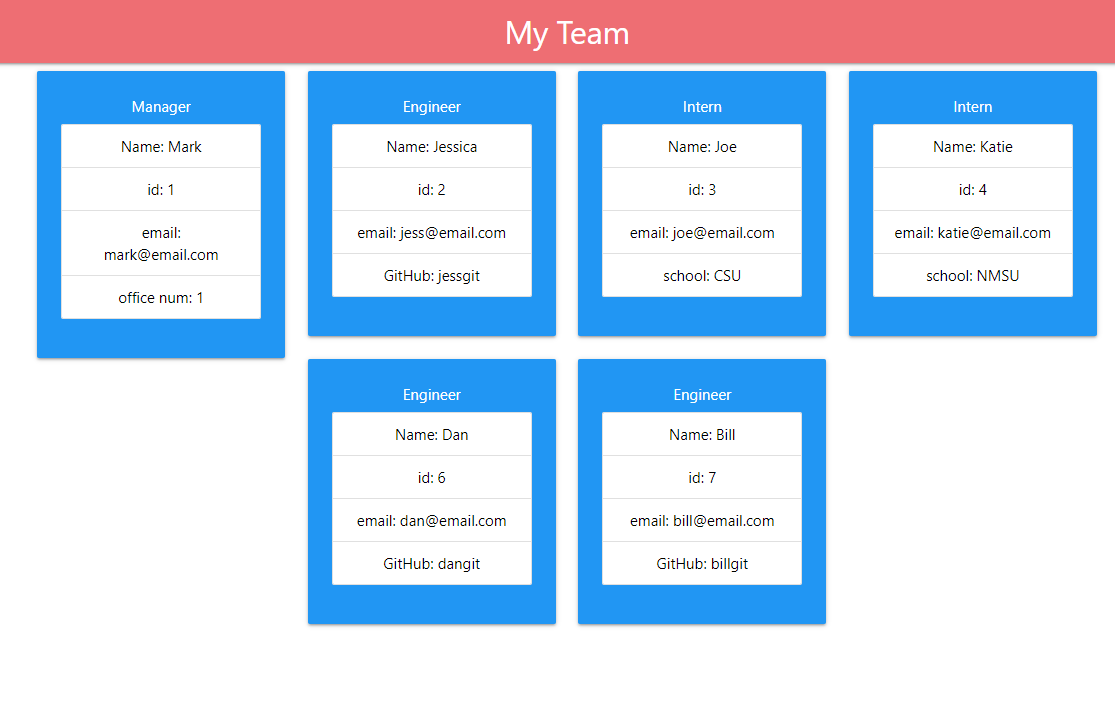
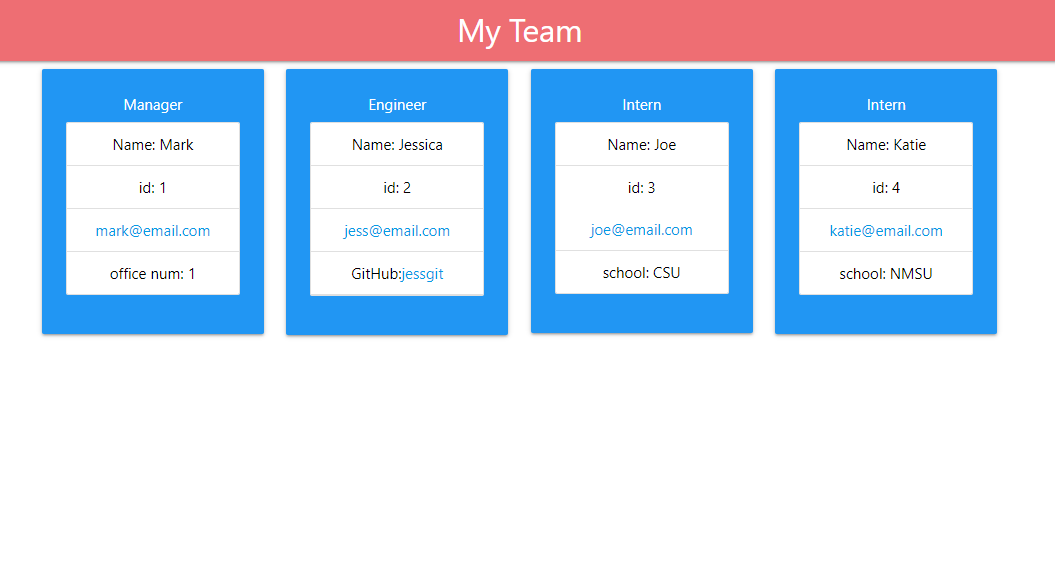
updated readme and removed some unneeded files

Changed region(s): [[0.0, 0.0296, 1.0, 0.8885], [0.6066, 0.6516, 0.637, 0.6812], [0.364, 0.6516, 0.3943, 0.6812]]

diff --git a/sample_index.html b/sample_index.html
@@ -26,7 +26,7 @@
         <ul class="collection">
           <li class="collection-item black-text">Name: Mark</li>
             <li class="collection-item black-text">id: 1</li>
-            <li class="collection-item black-text">email: mark@email.com</li>
+            <li class="collection-item black-text"><a href="mailto:mark@email.com">mark@email.com</a></li>
             <li class="collection-item black-text">office num: 1</li>
         </ul>
       </div>
@@ -38,19 +38,19 @@
         <ul class="collection">
           <li class="collection-item black-text">Name: Jessica</li>
             <li class="collection-item black-text">id: 2</li>
-            <li class="collection-item black-text">email: jess@email.com</li>
-            <li class="collection-item black-text">GitHub: jessgit</li>
+            <li class="collection-item black-text"><a href="mailto:jess@email.com">jess@email.com</a></li>
+            <li class="collection-item black-text">GitHub:<a href="https://github.com/jessgit"</a>jessgit</li>
         </ul>
       </div>
     </div>
       
       <div class="col s10 m4 l3">
       <div class="card-panel small blue white-text">
-        <span class="card-title">Intern</span>
+        <span class="card-title white-text">Intern</span>
         <ul class="collection">
           <li class="collection-item black-text">Name: Joe</li>
             <li class="collection-item black-text">id: 3</li>
-            <li class="collection-item black-text">email: joe@email.com</li>
+            <li class="collection-item black-text"><a href="mailto:joe@email.com">joe@email.com</a></li>
             <li class="collection-item black-text">school: CSU</li>
         </ul>
       </div>
@@ -58,40 +58,17 @@
       
       <div class="col s10 m4 l3">
       <div class="card-panel small blue white-text">
-        <span class="card-title">Intern</span>
+        <span class="card-title white-text">Intern</span>
         <ul class="collection">
           <li class="collection-item black-text">Name: Katie</li>
             <li class="collection-item black-text">id: 4</li>
-            <li class="collection-item black-text">email: katie@email.com</li>
+            <li class="collection-item black-text"><a href="mailto:katie@email.com">katie@email.com</a></li>
             <li class="collection-item black-text">school: NMSU</li>
         </ul>
       </div>
     </div>
-      
-      <div class="col s10 m4 l3">
-      <div class="card-panel small blue white-text">
-        <span class="card-title">Engineer</span>
-        <ul class="collection">
-          <li class="collection-item black-text">Name: Dan</li>
-            <li class="collection-item black-text">id: 6</li>
-            <li class="collection-item black-text">email: dan@email.com</li>
-            <li class="collection-item black-text">GitHub: dangit</li>
-        </ul>
-      </div>
-    </div>
-      
-      <div class="col s10 m4 l3">
-      <div class="card-panel small blue white-text">
-        <span class="card-title">Engineer</span>
-        <ul class="collection">
-          <li class="collection-item black-text">Name: Bill</li>
-            <li class="collection-item black-text">id: 7</li>
-            <li class="collection-item black-text">email: bill@email.com</li>
-            <li class="collection-item black-text">GitHub: billgit</li>
-        </ul>
-      </div>
-    </div>
        
+</div>
 </div>
 </div>
 <!-- JavaScript, jquery and materialize js links -->

diff --git a/src/template.js b/src/template.js
@@ -27,6 +27,7 @@ let teamString1 = `
 let teamString2 = `
 </div>
 </div>
+</div>
 <!-- JavaScript, jquery and materialize js links -->
 <script src="https://cdnjs.cloudflare.com/ajax/libs/jquery/3.6.0/jquery.min.js"></script>
 <script src="https://cdnjs.cloudflare.com/ajax/libs/materialize/1.0.0/js/materialize.min.js"></script>
@@ -53,7 +54,7 @@ function createTeamHtml(members){
         <ul class="collection">
           <li class="collection-item black-text">Name: ${element.getName()}</li>
             <li class="collection-item black-text">id: ${element.getId()}</li>
-            <li class="collection-item black-text">email: ${element.getEmail()}</li>
+            <li class="collection-item black-text"><a href="mailto:${element.getEmail()}">${element.getEmail()}</a></li>
             <li class="collection-item black-text">office num: ${element.getOfficeNumber()}</li>
         </ul>
       </div>
@@ -75,8 +76,8 @@ function createTeamHtml(members){
         <ul class="collection">
           <li class="collection-item black-text">Name: ${element.getName()}</li>
             <li class="collection-item black-text">id: ${element.getId()}</li>
-            <li class="collection-item black-text">email: ${element.getEmail()}</li>
-            <li class="collection-item black-text">GitHub: ${element.getGithub()}</li>
+            <li class="collection-item black-text"><a href="mailto:${element.getEmail()}">${element.getEmail()}</a></li>
+            <li class="collection-item black-text">GitHub:<a href="https://github.com/${element.getGithub()}"</a>${element.getGithub()}</li>
         </ul>
       </div>
     </div>
@@ -92,11 +93,11 @@ function createTeamHtml(members){
       intern = `
       <div class="col s10 m4 l3">
       <div class="card-panel small blue white-text">
-        <span class="card-title">Intern</span>
+        <span class="card-title white-text">Intern</span>
         <ul class="collection">
           <li class="collection-item black-text">Name: ${element.getName()}</li>
             <li class="collection-item black-text">id: ${element.getId()}</li>
-            <li class="collection-item black-text">email: ${element.getEmail()}</li>
+            <li class="collection-item black-text"><a href="mailto:${element.getEmail()}">${element.getEmail()}</a></li>
             <li class="collection-item black-text">school: ${element.getSchool()}</li>
         </ul>
       </div>

diff --git a/__tests__/Manager.test.js b/__tests__/Manager.test.js
@@ -10,6 +10,33 @@ describe("Manager", () => {
       expect(result).toBe(name);
     })
   })
+  describe("getId", () => {
+    // test getId for manager class
+    it("should return the name that is entered", () => {
+      const id = "1";
+      const newEmp = new Manager("Mark", id, "mark@email.com");
+      result = newEmp.getId()
+      expect(result).toBe(id);
+    })
+  })
+  describe("getEmail", () => {
+    // test getEmail for manager class
+    it("should return the name that is entered", () => {
+      const email = "mark@email.com";
+      const newEmp = new Manager("Mark", "1", email);
+      result = newEmp.getEmail()
+      expect(result).toBe(email);
+    })
+  })
+  describe("getRole", () => {
+    // test getRole for manager class
+    it("should return the name that is entered", () => {
+      const role = "Manager";
+      const newEmp = new Manager("Mark", "1", "mark@email.com");
+      result = newEmp.getRole()
+      expect(result).toBe(role);
+    })
+  })
 
 
 

diff --git a/__tests__/Intern.test.js b/__tests__/Intern.test.js
@@ -10,6 +10,33 @@ describe("Intern", () => {
       expect(result).toBe(name);
     })
   })
+  describe("getId", () => {
+    // test getId for intern class
+    it("should return the name that is entered", () => {
+      const id = "1";
+      const newEmp = new Intern("Mark", id, "mark@email.com");
+      result = newEmp.getId()
+      expect(result).toBe(id);
+    })
+  })
+  describe("getEmail", () => {
+    // test getName for intern class
+    it("should return the name that is entered", () => {
+      const email = "mark@email.com";
+      const newEmp = new Intern("Mark", "1", email);
+      result = newEmp.getEmail()
+      expect(result).toBe(email);
+    })
+  })
+  describe("getRole", () => {
+    // test getRole for intern class
+    it("should return the name that is entered", () => {
+      const role = "Intern";
+      const newEmp = new Intern("Mark", "1", "mark@email.com");
+      result = newEmp.getRole()
+      expect(result).toBe(role);
+    })
+  })
 
 
 

diff --git a/README.md b/README.md
@@ -23,12 +23,14 @@
 
   ## Usage 
   A manager will follow prompts to enter their name, id, email and office number.  Then they will be given a choice of adding an engineer or intern. After completing the engineer or inter's information the application will continue to ask the same question until the manager chooses "quit". When that is choosen a index.html file will be created in the root of the app that displays the team's information.  
- 
+
 ### Walkthrough Video
 [https://google.com](https://google.com)
 
+### Sample Index file
+[https://drive.google.com/file/d/12bhBfsZYBHfvKKf_X5PJEhFqyZXFFD1N/view?usp=sharing](https://drive.google.com/file/d/12bhBfsZYBHfvKKf_X5PJEhFqyZXFFD1N/view?usp=sharing)
 
-
+### Screenshot of output
 ![Screenshot](./Sample_screenshot_team_gen.png "Screenshot")
 
 
